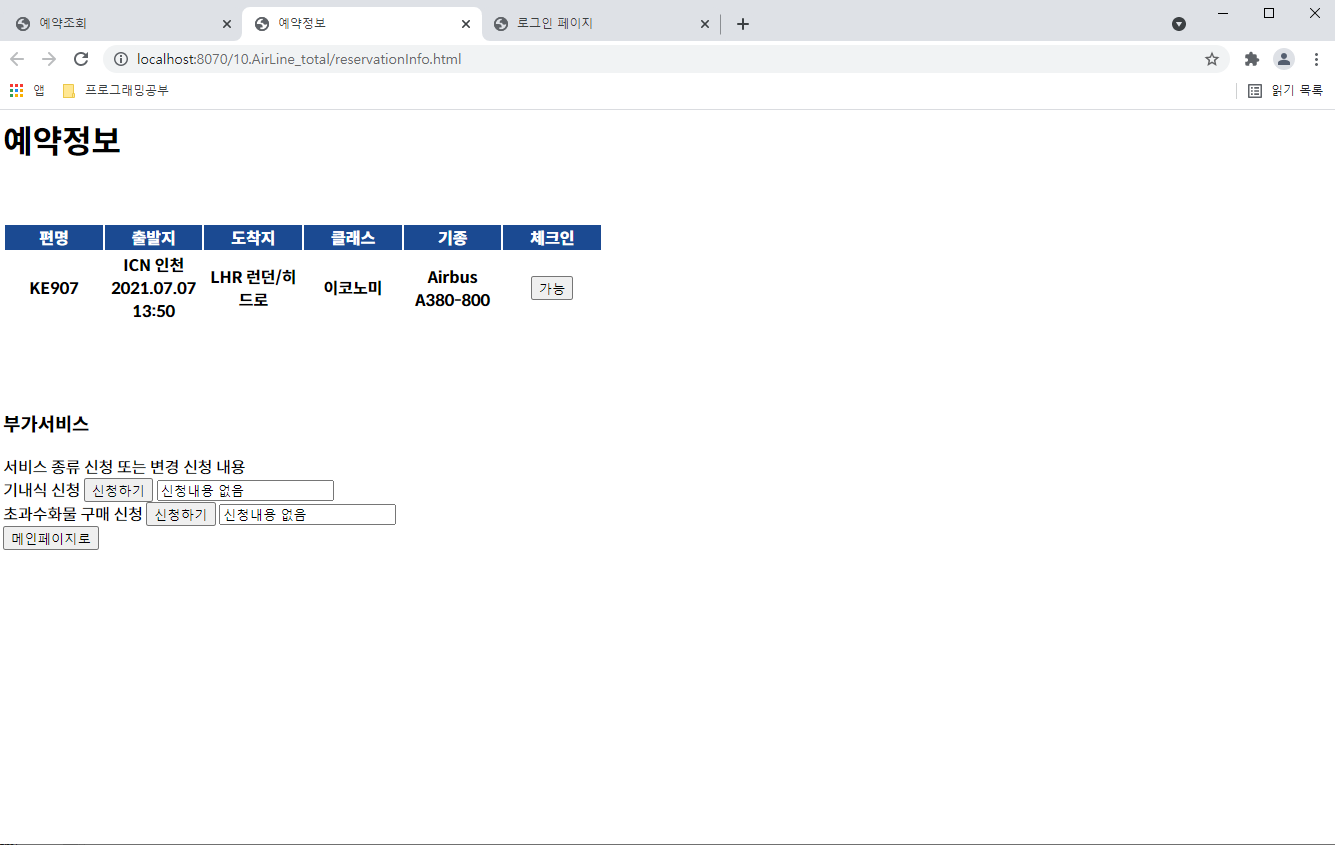
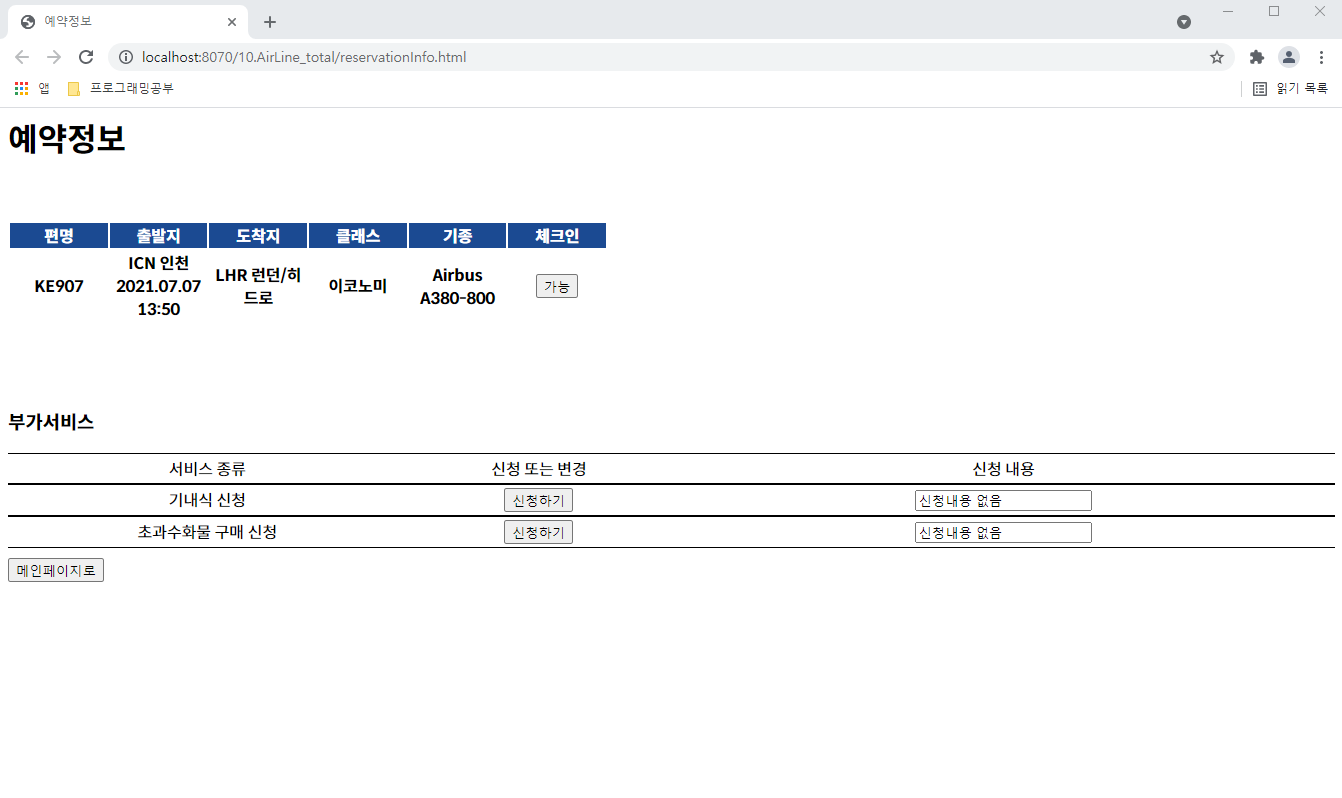
누락 자료 추가

diff --git a/final/css/additionalService.css b/final/css/additionalService.css
@@ -1,0 +1,67 @@
+@charset "UTF-8";
+@import url(//spoqa.github.io/spoqa-han-sans/css/SpoqaHanSansNeo.css);
+
+body {
+	font-family: "Spoqa Han Sans Neo", "Sans-serif";
+}
+
+/* 로고 */
+
+div.mainLogo {
+	display:inline;
+	
+}
+
+img {
+	width : 30px;
+	height: 30px;
+}
+
+/* 전체 위 간격 */
+div {
+	margin-top:10px;
+}
+
+
+div.table{
+	display:table; 
+	width:100%
+}
+
+div.row1 { 
+	display:table-row;
+	width:100%
+}
+
+div.row2 { 
+	display:table-row;
+}
+
+div.row3 { 
+	display:table-row;
+}
+
+span.cell {
+	display:table-cell;
+	padding: 3px; 
+	
+	border-top:1px solid black;
+	border-bottom:1px solid black;
+	
+}
+
+span.col1 {
+	width : 30%;
+	text-align : center;
+}
+
+span.col2 {
+	width : 20%;
+	text-align : center;
+}
+
+span.col3 {
+	width : 50%;
+	text-align : center;
+}
+

diff --git a/final/afterCheckInReservationInfo.html b/final/afterCheckInReservationInfo.html
@@ -7,7 +7,9 @@
 body { font-family: 'Spoqa Han Sans Neo', 'sans-serif'; }
 </style>
 <link type="text/css" rel="stylesheet" href="css/suin.css">
+<link type="text/css" rel="stylesheet" href="css/additionalService.css">
 <script type="text/javascript" src="js/suin.js"></script>
+<script type="text/javascript" src="js/additionalService.js"></script>
 
 <title>예약정보</title>
 </head>

diff --git a/final/reservationInfo.html b/final/reservationInfo.html
@@ -7,6 +7,7 @@
 body { font-family: 'Spoqa Han Sans Neo', 'sans-serif'; }
 </style>
 <link type="text/css" rel="stylesheet" href="css/suin.css">
+<link type="text/css" rel="stylesheet" href="css/additionalService.css">
 <script type="text/javascript" src="js/suin.js"></script>
 <!-- js : external -->
 <script type="text/javascript" src="js/additionalService.js"></script>
